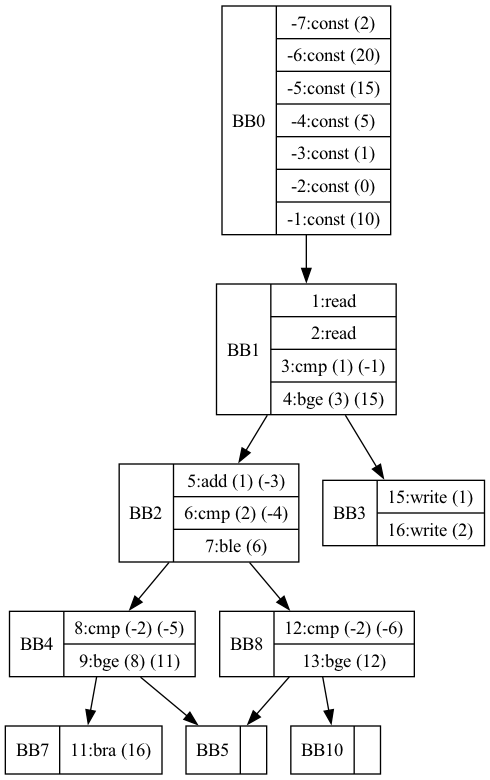
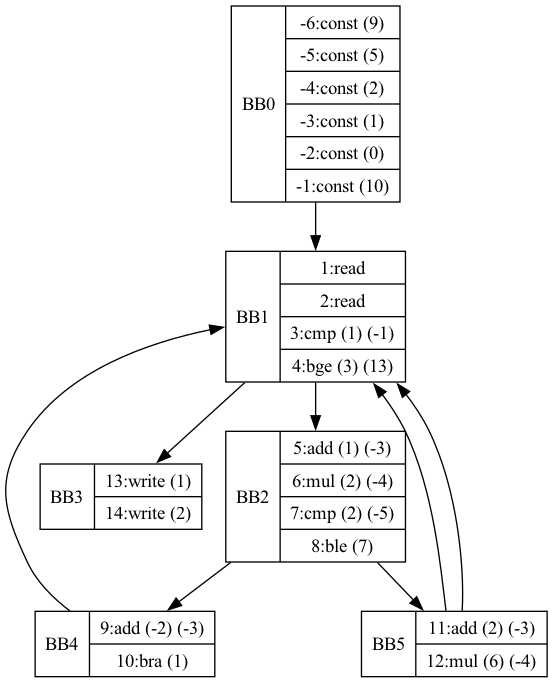
resume where we left off; [simple_nested_if_while.ty] cause we need to incrementally work up to it; one problem at a time...small wins build the foundation for a victory; modified a lot of [p2_ifStatement()]; committed right after first successful DOT of return arrows (child back to the loop)

diff --git a/src/Parser.cpp b/src/Parser.cpp
@@ -869,15 +869,8 @@ SSA* Parser::p_ifStatement() {
 SSA* Parser::p2_ifStatement() {
     #ifdef DEBUG
         std::cout << "[Parser::p2_ifStatement(" << this->sym.to_string() << ")]" << std::endl;
+        std::cout << "\tcurrBB looks like: " << std::endl << this->currBB->toString() << std::endl;
     #endif
-    /*
-    [07/19/2024] Thought about this:
-    ii) we could create the SSA instr WITH the empty position,
-    then fill it once we see a corresponding `else`
-    - I think this might be better
-
-    Note: the curr instr list here DOMinates all 3 following blocks for [if-statement][then, else, && join]
-    */
     // IF
     this->CheckFor(Result(2, 18)); // check `if`; Note: we only do this as a best practice and to consume the `if` token
     SSA *jmp_instr = p_relation(); // IF: relation
@@ -885,40 +878,50 @@ SSA* Parser::p2_ifStatement() {
     // THEN
     this->CheckFor(Result(2, 19)); // check `then`
 
-    // [10.21.2024]: Store a temp version of [this->instrList] rn if need join later
-    // std::unordered_map<int, LinkedList*> tmpLst = this->copyInstrList();
-
     // [10/14/2024];
     BasicBlock *then_blk = new BasicBlock(this->currBB->varVals);
     #ifdef DEBUG
         std::cout << "created new BB (then)" << std::endl;
     #endif
-    // #ifdef DEBUG
-    //     std::cout << "created new BB with instrList: " << std::endl << "\t";
-    //     then_blk->printInstrList();
-    // #endif
 
     BasicBlock *if_parent = this->currBB;
-    then_blk->parent = if_parent;
+    BasicBlock *og_child = nullptr;
+    
+    bool hasChild = false;
+    if (if_parent->child2) {
+        #ifdef DEBUG    
+            std::cout << "if_parent has a previous child, looks like: " << std::endl << if_parent->child2->toString() << std::endl;
+        #endif
+        hasChild = true;
+        og_child = if_parent->child2;
+    }
+    
+    then_blk->parent = if_parent;    
     if_parent->child = then_blk;
     // if_parent = then_blk; // [10/14/2024]: Assume [p2_statSeq()] manipulates [this->currBB]
     this->currBB = this->currBB->child;
 
-    // [10.24.2024]: ?
-    BasicBlock *join_blk = new BasicBlock(this->currBB->varVals);
-    #ifdef DEBUG
-        std::cout << "created new BB (join)" << std::endl;
-    #endif
-    join_blk->parent = then_blk;
-    then_blk->child2 = join_blk;
+    BasicBlock *join_blk = nullptr;
+
+    // [11.04.2024]: new; note - [then_blk->child = (old) if_parent->child]
+    if (!hasChild) {
+        // [10.24.2024]: ?
+        join_blk = new BasicBlock(this->currBB->varVals);
+        #ifdef DEBUG
+            std::cout << "created new BB (join), looks like: " << std::endl << join_blk->toString() << std::endl;
+        #endif
+        then_blk->child2 = join_blk;
+        join_blk->parent = then_blk;
+    } else {
+        #ifdef DEBUG
+            std::cout << "using existing child (4join): " << std::endl << og_child->toString() << std::endl;
+        #endif
+        then_blk->child2 = og_child;
+        og_child->parent = then_blk;
+    }
 
     SSA *if1 = p2_statSeq(); // returns the 1st SSA instruction 
     // [10.28.2024]: Guess we don't rlly need to jmp to this since its directly after the cmp
-
-    // [Optional] ELSE
-    // if (this->CheckFor(Result(2, 20), true)) { // check `else`
-    //    moved below。。。
-    // } else {
 
     if (!this->CheckFor(Result(2, 20), true)) { // if no-else statement
     // 【09/23/2024】： This is not the condition that properly checks whether or not we have an `else` condition
@@ -932,26 +935,23 @@ SSA* Parser::p2_ifStatement() {
         this->prevJump = true;
         this->prevInstrs.push(jmp_instr); // [10/10/2024]: push at the end so next added SSA-instr will be set as the jump-location
 
-        // BasicBlock *notThen = new BasicBlock();
-        // #ifdef DEBUG
-        //     std::cout << "created new BB (not-then)" << std::endl;
-        // #endif
-        // #ifdef DEBUG
-        //     std::cout << "created new BB with instrList: " << std::endl << "\t";
-        //     notThen->printInstrList();
-        // #endif
-        
-        if_parent->child2 = join_blk;
-        join_blk->parent2 = if_parent;
-        this->currBB = join_blk; // [10.24.2024]: same as [this->currBB = this->currBB->child;]?
-        
-        // notThen->parent = then_blk; // [this->currBB (should) == then]
-        // then_blk->child = notThen;
-        // notThen->parent2 = if_parent;
-        // this->currBB = notThen;
+        if (!hasChild) {
+            if_parent->child2 = join_blk;
+            join_blk->parent2 = if_parent;
+            this->currBB = join_blk; // [10.24.2024]: same as [this->currBB = this->currBB->child;]?
+        } else {
+            if_parent->child2 = og_child;
+            this->currBB = og_child;
+        }
 
-        // [07/28/2024]: might need this here(?)
-        // return if1; // [08/08/2024]: Good call; yes we should
+        #ifdef DEBUG
+            std::cout << "after if1 statSeq(), [if_parent->child2] looks like: " << std::endl;
+            if (if_parent->child2) {
+                std::cout << if_parent->child2->toString() << std::endl;
+            } else {
+                std::cout << "nullptr!" << std::endl;
+            }
+        #endif
         
         //[10.21.2024]: Isn't this actually the first instruction?
         return jmp_instr;
@@ -965,19 +965,21 @@ SSA* Parser::p2_ifStatement() {
     next();
 
     // [10/14/2024];
-    BasicBlock *else_blk = new BasicBlock(this->currBB->varVals);
+    BasicBlock *else_blk = new BasicBlock(if_parent->varVals);
     #ifdef DEBUG
         std::cout << "created new BB (else)" << std::endl;
     #endif
-    // #ifdef DEBUG
-    //     std::cout << "created new BB with instrList: " << std::endl << "\t";
-    //     else_blk->printInstrList();
-    // #endif
-
     if_parent->child2 = else_blk;
     else_blk->parent = if_parent;
-    else_blk->child2 = join_blk;
-    join_blk->parent2 = else_blk;
+    
+    if (!hasChild) {
+        else_blk->child2 = join_blk;
+        join_blk->parent2 = else_blk;
+    } else {
+        else_blk->child2 = og_child;
+        og_child->parent2 = else_blk;
+    }
+
     this->currBB = else_blk; // [10/14/2024]: again, similar to above we assume [p2_statSeq()] manipulates [this->currBB]
 
     // [10/10/2024]: These instructions should start the else-BasicBlock right?
@@ -990,49 +992,63 @@ SSA* Parser::p2_ifStatement() {
     // FI
     this->CheckFor(Result(2, 21)); // check `fi`
 
-    // // [10.21.2024]: Repalce below(?)
-    // BasicBlock *join_blk = new BasicBlock(then_blk, else_blk, this->VVs);
-
-    // [10/14/2024];
-    // BasicBlock *join_blk = new BasicBlock(then_blk, else_blk, this->VVs, this->instrList);
-
-    // #ifdef DEBUG
-    //     std::cout << "created new BB with instrList: " << std::endl << "\t";
-    //     join_blk->printInstrList();
-    // #endif
+    // 11.04.2024::6:57;
+    if (!hasChild) {
+        // join_blk->parent = then_blk; // [10.24.2024]: already did this earlier
+        join_blk->parent2 = else_blk;
+        then_blk->child = join_blk;
+        else_blk->child = join_blk;
     
-    // join_blk->parent = then_blk; // [10.24.2024]: already did this earlier
-    join_blk->parent2 = else_blk;
-    then_blk->child = join_blk;
-    else_blk->child = join_blk;
+        this->currBB = join_blk;
+    } else {
+        og_child->parent2 = else_blk;
+        // then_blk->child = og_child; [this is already done earlier]
+        else_blk->child = og_child;
+        
+        this->currBB = og_child;
+    }
     
-    this->currBB = join_blk;
-
-    // [Special Instructions]: phi() goes here
-    // - [10.24.2024]: i don't think it does xD
-    // SSA *phi_instr = this->addSSA1(6, if1, if2); // [check=false]; Note - new [addSSA1()] does the same as below's commented out portion!
-
     // [SECTION_A]
     // 【10/10/2024】： Note that we can't [this->prevJump=true; this->prevInstrs.push(jmpIf_instr)] bc we set_operand1() rather than set_operand2()...see below
     #ifdef DEBUG
         std::cout << "jmpIf_instr: " << jmpIf_instr->toString() << std::endl;
         // std::cout << "created new phi-instr: " << phi_instr->toString() << std::endl;
         std::cout << "trying to set operand1 (join_blk->newInstrs.front()->instr): ";
-        if (!join_blk->newInstrs.empty()) {
-            std::cout << join_blk->newInstrs.front()->instr->toString() << std::endl;
+        if (!hasChild) {
+            if (!join_blk->newInstrs.empty()) {
+                std::cout << join_blk->newInstrs.front()->instr->toString() << std::endl;
+            } else {
+                std::cout << "no node exists!" << std::endl;
+            }
         } else {
-            std::cout << "no node exists!" << std::endl;
+            if (!og_child->newInstrs.empty()) {
+                std::cout << og_child->newInstrs.front()->instr->toString() << std::endl;
+            } else {
+                std::cout << "no node exists!" << std::endl;
+            }
         }
     #endif
-    // [10.24.2024]: Does this work?
-    // jmpIf_instr->set_operand1(phi_instr);
-    if (!join_blk->newInstrs.empty()) {
-        jmpIf_instr->set_operand1(join_blk->newInstrs.front()->instr); // set_operand[1] since it's just a `bra` instr
+    
+    if (!hasChild) {
+        // [10.24.2024]: Does this work?
+        // jmpIf_instr->set_operand1(phi_instr);
+        if (!join_blk->newInstrs.empty()) {
+            jmpIf_instr->set_operand1(join_blk->newInstrs.front()->instr); // set_operand[1] since it's just a `bra` instr
+        } else {
+            this->prevInstrs.push(jmpIf_instr);
+            #ifdef DEBUG
+                std::cout << "join_blk had no newInstrs! pushing [jmpIf_instr] onto [this->prevInstrs]" << std::endl;
+            #endif
+        }
     } else {
-        this->prevInstrs.push(jmpIf_instr);
-        #ifdef DEBUG
-            std::cout << "join_blk had no newInstrs! pushing [jmpIf_instr] onto [this->prevInstrs]" << std::endl;
-        #endif
+        if (!og_child->newInstrs.empty()) {
+            jmpIf_instr->set_operand1(og_child->newInstrs.front()->instr); // set_operand[1] since it's just a `bra` instr
+        } else {
+            this->prevInstrs.push(jmpIf_instr);
+            #ifdef DEBUG
+                std::cout << "og_child (join) had no newInstrs! pushing [jmpIf_instr] onto [this->prevInstrs]" << std::endl;
+            #endif
+        }
     }
 
     // [07/31/2024]: For now don't know what to do abt this (or if this is even right)
@@ -1114,10 +1130,10 @@ SSA* Parser::p2_whileStatement() {
     #endif
 
     this->currBB = while_blk;
+    #ifdef DEBUG
+        std::cout << "right before while-statSeq, [this->currBB]'s child2 looks like (parent_blk): " << this->currBB->child2->toString() << std::endl;
+    #endif
     SSA *while1 = p2_statSeq(); // DO: relation
-
-    // [10/14/2024]: Do we need a SSA-instr that takes us back to the [cmp-instr]?
-    // - check video
 
     // this->SSA_instrs.push_back(while1); // returns first statement from statSeq in while
     #ifdef DEBUG
@@ -1356,6 +1372,9 @@ SSA* Parser::p_factor() {
             exit(EXIT_FAILURE);
         }
         res = BasicBlock::ssa_table.at(this->currBB->varVals.at(this->sym.get_value_literal()));
+        #ifdef DEBUG
+            std::cout << "got ident with value: " << res->toString() << std::endl;
+        #endif
         next(); // [08/08/2024]: must consume the [ident]?
     } else if (this->CheckFor(Result(2, 13), true)) { // check [`(` expression `)`]
         next(); // consume `(`

diff --git a/src/Parser.hpp b/src/Parser.hpp
@@ -694,9 +694,9 @@ private:
 
     // peek & consume char
     inline void next() {
-        #ifdef DEBUG
-            std::cout << "in [next(this->sym=" << this->sym.to_string_literal() << ", this->s_index=" << this->s_index << ")]" << std::endl;
-        #endif
+        // #ifdef DEBUG
+        //     std::cout << "in [next(this->sym=" << this->sym.to_string_literal() << ", this->s_index=" << this->s_index << ")]" << std::endl;
+        // #endif
 
 
         if (this->s_index < this->source_len) {
@@ -705,9 +705,9 @@ private:
             this->sym = Result(2, -1); // keyword: ["EOF": -1]
         }
 
-        #ifdef DEBUG
-            std::cout << "\tmodified [this->sym] to: " << this->sym.to_string_literal() << "[" << this->sym.to_string() << "], this->s_index=" << this->s_index << std::endl;
-        #endif
+        // #ifdef DEBUG
+        //     std::cout << "\tmodified [this->sym] to: " << this->sym.to_string_literal() << "[" << this->sym.to_string() << "], this->s_index=" << this->s_index << std::endl;
+        // #endif
     }
 
     // consumes [non-optional's]

diff --git a/main.cpp b/main.cpp
@@ -24,7 +24,7 @@
 // std::string f_name = file_name;
 // std::string f_full = f_name + f_ext;
 // std::string in_f = "tst/" + f_name + f_ext;
-#define in_f "tst/nested_if_while.ty"
+#define in_f "tst/simple_nested_if_while.ty"
 
 // [10.23.2024]: Silly rabbit
 
